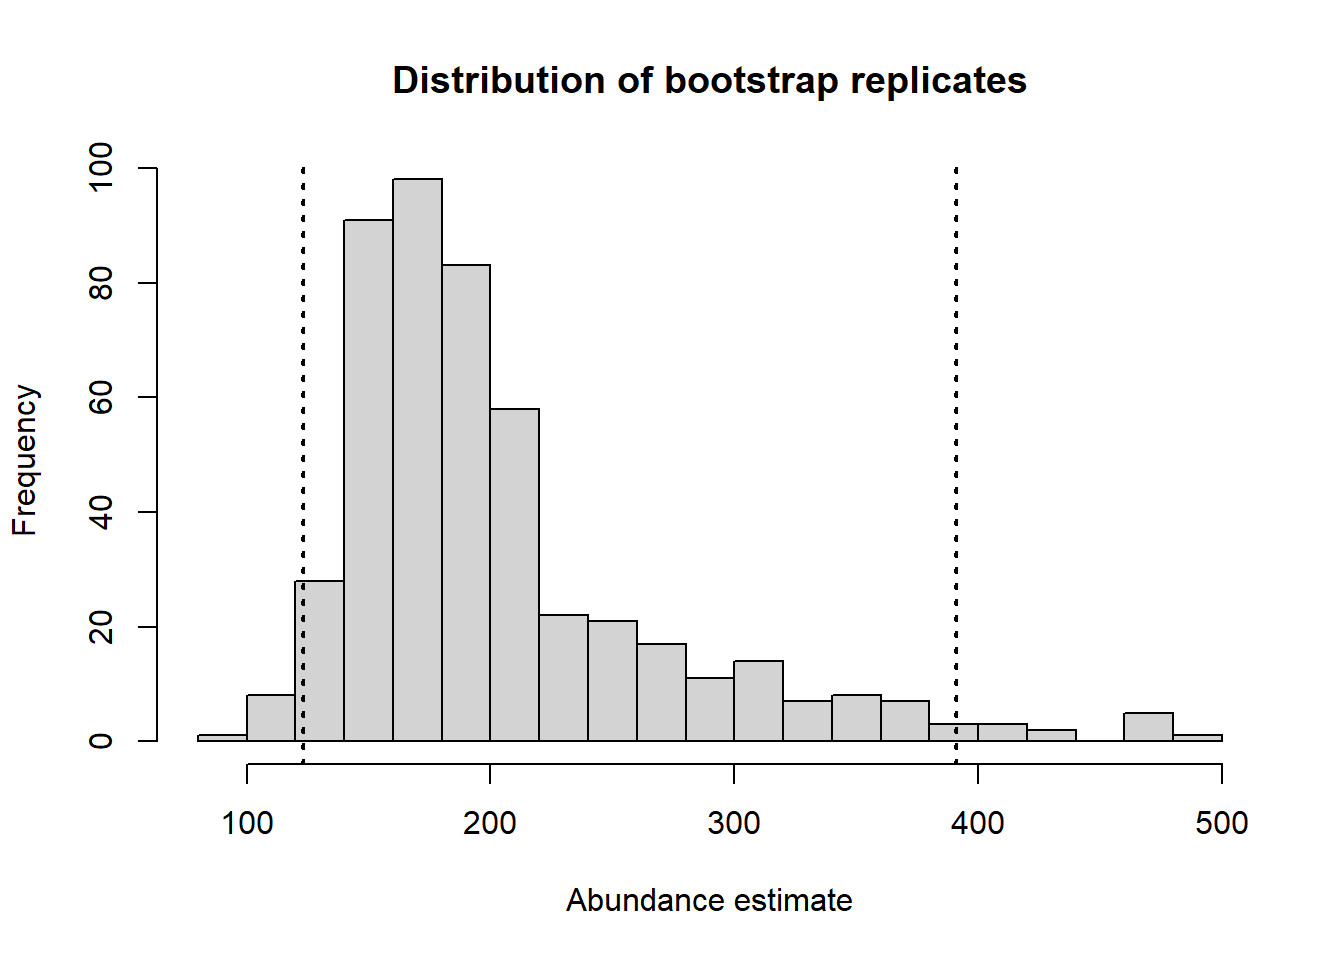
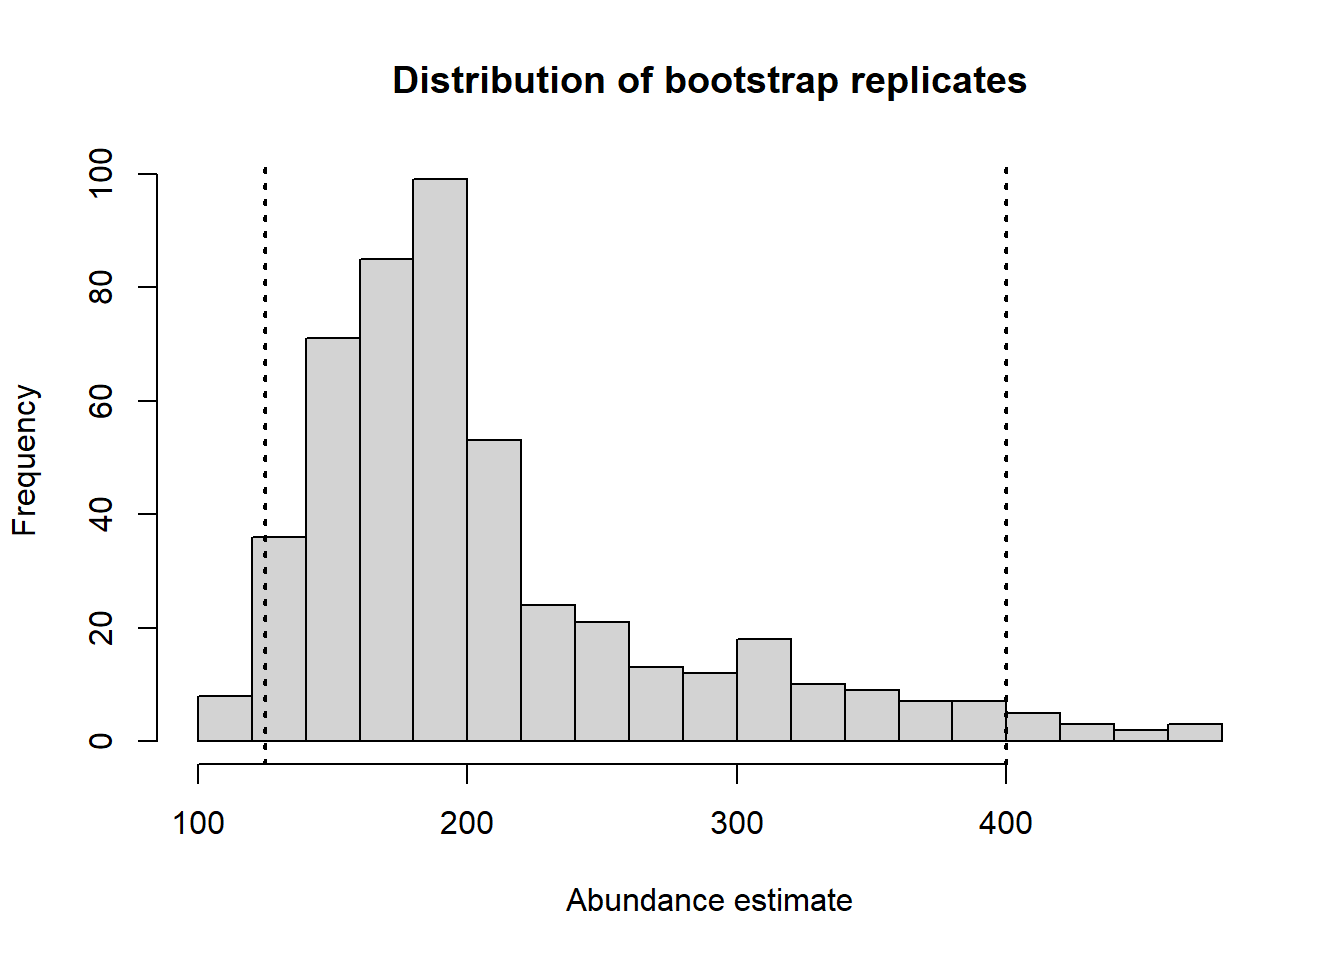
mystery solution

diff --git a/docs/announce/2023-01-02-mysterysoln/index.html b/docs/announce/2023-01-02-mysterysoln/index.html
@@ -716,7 +716,7 @@ N in covered region 70.5283160 13.91222961 0.1972574</code></pre>
 </div>
 </div>
 </div>
-<p>Confidence interval bounds from bootstrap are (123, 391), somewhat wider than the analytical confidence interval bounds specified above.</p>
+<p>Confidence interval bounds from bootstrap are (125, 400), somewhat wider than the analytical confidence interval bounds specified above.</p>
 </section>
 <section id="closest-aic-score-competitor-hazard-rate-with-sex-covariate" class="level2">
 <h2 class="anchored" data-anchor-id="closest-aic-score-competitor-hazard-rate-with-sex-covariate">Closest AIC score competitor, Hazard rate with sex covariate</h2>
